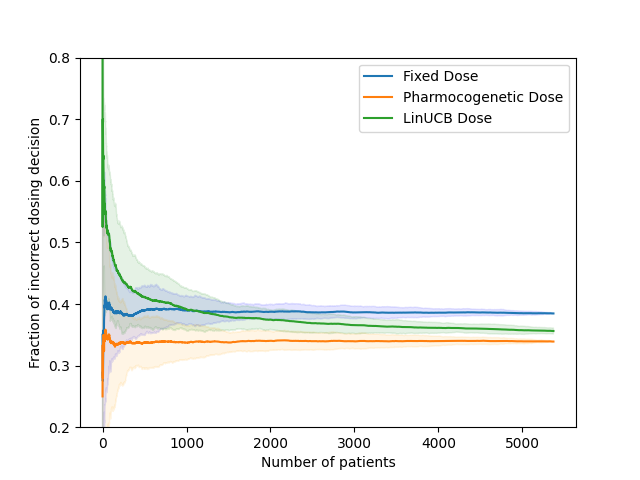
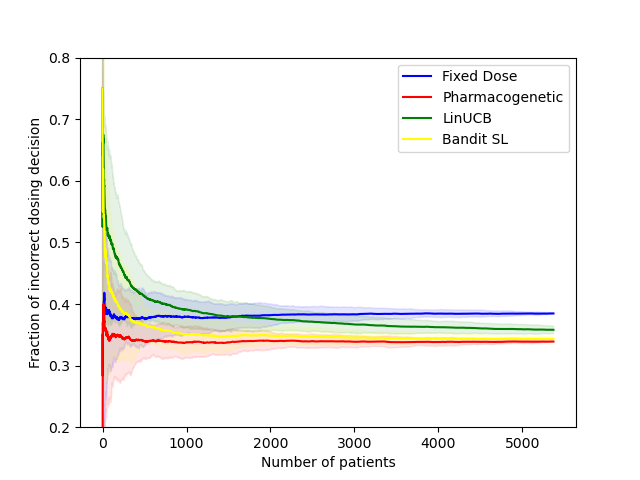
Add supervised learning baseline

diff --git a/main.py b/main.py
@@ -1,12 +1,26 @@
+import dataclasses
+from typing import Tuple
+
 import numpy as np
 import pandas as pd
 from matplotlib import pyplot as plt
 
+import supervised_learning
+from dosing_algo import (fixed_dose_policy, linucb_policy,
+                         pharmacogenetic_policy)
 from preprocessing import preprocess_patients_df
-from dosing_algo import fixed_dose_policy, pharmacogenetic_policy, linucb_policy
 
 
-def compute_metrics(dosage_bucket, dosage_target):
+@dataclasses.dataclass(frozen=True)
+class Metric:
+    metric_values: list[list[int]] | list[np.ndarray[float]]
+    label_name: str
+    color: str
+
+
+def compute_metrics(
+    dosage_bucket: np.ndarray, dosage_target: np.ndarray
+) -> Tuple[list[int], np.ndarray]:
     n_patients = len(dosage_bucket)
     regrets = []
     incorrect_fracs = []
@@ -30,42 +44,27 @@ def compute_metrics(dosage_bucket, dosage_target):
 
 
 def plot_performance(
-    fixed_dose_metric, lin_oracle_metric, linucb_metric, metric_name, file_name
-):
-    n_patients = fixed_dose_metric.shape[1]
+    metrics: list[Metric],
+    n_patients: int,
+    metric_name: str,
+    file_name: str,
+) -> None:
     timesteps = np.linspace(0, n_patients - 1, n_patients)
 
-    fixed_dose_mean = fixed_dose_metric.mean(axis=0)
-    lin_oracle_mean = lin_oracle_metric.mean(axis=0)
-    linucb_mean = linucb_metric.mean(axis=0)
-    fixed_dose_ci = 1.96 * fixed_dose_metric.std(axis=0)
-    lin_oracle_ci = 1.96 * lin_oracle_metric.std(axis=0)
-    linucb_ci = 1.96 * linucb_metric.std(axis=0)
+    for metric in metrics:
+        metric_values = np.array(metric.metric_values)
+        mean = metric_values.mean(axis=0)
+        ci = 1.96 * metric_values.std(axis=0)
 
-    plt.plot(timesteps, fixed_dose_mean, label="Fixed Dose")
-    plt.plot(timesteps, lin_oracle_mean, label="Pharmocogenetic Dose")
-    plt.plot(timesteps, linucb_mean, label="LinUCB Dose")
-    plt.fill_between(
-        timesteps,
-        (fixed_dose_mean - fixed_dose_ci),
-        (fixed_dose_mean + fixed_dose_ci),
-        color="blue",
-        alpha=0.1,
-    )
-    plt.fill_between(
-        timesteps,
-        (lin_oracle_mean - lin_oracle_ci),
-        (lin_oracle_mean + lin_oracle_ci),
-        color="orange",
-        alpha=0.1,
-    )
-    plt.fill_between(
-        timesteps,
-        (linucb_mean - linucb_ci),
-        (linucb_mean + linucb_ci),
-        color="green",
-        alpha=0.1,
-    )
+        plt.plot(timesteps, mean, label=metric.label_name, color=metric.color)
+        plt.fill_between(
+            timesteps,
+            (mean - ci),
+            (mean + ci),
+            color=metric.color,
+            alpha=0.1,
+        )
+
     plt.xlabel("Number of patients")
     plt.ylabel(metric_name)
     plt.legend()
@@ -83,6 +82,7 @@ if __name__ == "__main__":
     fixed_dose_regret_trials, fixed_dose_incorrect_frac_trials = [], []
     linear_oracle_regret_trials, linear_oracle_incorrect_frac_trials = [], []
     linucb_regret_trials, linucb_incorrect_frac_trials = [], []
+    bandit_sl_regret_trials, bandit_sl_incorrect_frac_trials = [], []
     for _ in range(N_TRIALS):
         shuffled_patients_df = patients_df.sample(frac=1).reset_index(drop=True)
         dosage_target = shuffled_patients_df["Therapeutic Dose of Warfarin"].to_numpy()
@@ -108,20 +108,65 @@ if __name__ == "__main__":
         linucb_regret_trials.append(linucb_regret)
         linucb_incorrect_frac_trials.append(linucb_incorrect_frac)
 
+        bandit_sl_buckets = supervised_learning.bandit_sl(shuffled_patients_df)
+        bandit_sl_regret, bandit_sl_incorrect_frac = compute_metrics(
+            bandit_sl_buckets, dosage_target
+        )
+        bandit_sl_regret_trials.append(bandit_sl_regret)
+        bandit_sl_incorrect_frac_trials.append(bandit_sl_incorrect_frac)
+
     plot_performance(
-        np.array(fixed_dose_regret_trials),
-        np.array(linear_oracle_regret_trials),
-        np.array(linucb_regret_trials),
+        metrics=[
+            Metric(
+                metric_values=fixed_dose_regret_trials,
+                label_name="Fixed Dose",
+                color="blue",
+            ),
+            Metric(
+                metric_values=linear_oracle_regret_trials,
+                label_name="Pharmacogenetic",
+                color="red",
+            ),
+            Metric(
+                metric_values=linucb_regret_trials, label_name="LinUCB", color="green"
+            ),
+            Metric(
+                metric_values=bandit_sl_regret_trials,
+                label_name="Bandit SL",
+                color="yellow",
+            ),
+        ],
+        n_patients=np.array(fixed_dose_regret_trials).shape[1],
         metric_name="Regret",
         file_name="regret.png",
     )
-    
+
     ax = plt.gca()
     ax.set_ylim([0.2, 0.8])
     plot_performance(
-        np.array(fixed_dose_incorrect_frac_trials),
-        np.array(linear_oracle_incorrect_frac_trials),
-        np.array(linucb_incorrect_frac_trials),
+        metrics=[
+            Metric(
+                metric_values=fixed_dose_incorrect_frac_trials,
+                label_name="Fixed Dose",
+                color="blue",
+            ),
+            Metric(
+                metric_values=linear_oracle_incorrect_frac_trials,
+                label_name="Pharmacogenetic",
+                color="red",
+            ),
+            Metric(
+                metric_values=linucb_incorrect_frac_trials,
+                label_name="LinUCB",
+                color="green",
+            ),
+            Metric(
+                metric_values=bandit_sl_incorrect_frac_trials,
+                label_name="Bandit SL",
+                color="yellow",
+            ),
+        ],
+        n_patients=np.array(fixed_dose_incorrect_frac_trials).shape[1],
         metric_name="Fraction of incorrect dosing decision",
         file_name="incorrect_fraction.png",
     )

diff --git a/supervised_learning.py b/supervised_learning.py
@@ -1,0 +1,42 @@
+from typing import Tuple
+
+import numpy as np
+import pandas as pd
+from sklearn import linear_model
+
+
+def bandit_sl(dataset: pd.DataFrame) -> np.ndarray[int]:
+    dosage_buckets = []
+    X, y = _compute_features_and_targets(dataset)
+    model = _initialize_linear_model(X, y)
+    for i in range(len(X)):
+        y_pred = model.predict(np.expand_dims(X[i], axis=0))[0]
+        if y_pred < 21:
+            dosage_buckets.append(0)
+        elif y_pred <= 49:
+            dosage_buckets.append(1)
+        else:
+            dosage_buckets.append(2)
+
+        model = model.fit(X[: i + 1], y[: i + 1])
+    return np.array(dosage_buckets)
+
+
+def _compute_features_and_targets(
+    dataset: pd.DataFrame,
+) -> Tuple[np.ndarray, np.ndarray]:
+    features_df = dataset.drop("Therapeutic Dose of Warfarin", axis=1)
+    features_np = np.hstack([features_df.to_numpy(), np.ones((len(dataset), 1))])
+    targets_np = dataset["Therapeutic Dose of Warfarin"].to_numpy()
+    return features_np, targets_np
+
+
+def _initialize_linear_model(
+    X: np.ndarray, y: np.ndarray
+) -> linear_model.LinearRegression:
+    # Randomly initialize the linear model. The model cannot be used to predict
+    # without fitting on something first.
+    random_x = np.random.rand(*X.shape)
+    random_y = np.random.rand(*y.shape)
+    model = linear_model.LinearRegression().fit(random_x, random_y)
+    return model

diff --git a/dosing_algo.py b/dosing_algo.py
@@ -1,14 +1,15 @@
 import numpy as np
 import pandas as pd
+
 from linucb import linear_ucb
 from preprocessing import compute_features_and_targets
 
 
-def fixed_dose_policy(dataset: pd.DataFrame):
+def fixed_dose_policy(dataset: pd.DataFrame) -> np.ndarray[int]:
     return np.ones(len(dataset))
 
 
-def pharmacogenetic_policy(dataset: pd.DataFrame):
+def pharmacogenetic_policy(dataset: pd.DataFrame) -> np.ndarray[int]:
     dosage_df = dataset.copy()
     dosage_df["Predicted Dose"] = (
         5.6044
@@ -44,7 +45,7 @@ def pharmacogenetic_policy(dataset: pd.DataFrame):
     return dosage_buckets
 
 
-def linucb_policy(dataset: pd.DataFrame):
+def linucb_policy(dataset: pd.DataFrame) -> np.ndarray:
     features, arms_rewards = compute_features_and_targets(dataset)
     return linear_ucb(features, arms_rewards, alpha=1)
 

diff --git a/linucb.py b/linucb.py
@@ -4,7 +4,9 @@ from matplotlib import pyplot as plt
 N_ARMS = 3
 
 
-def linear_ucb(x_train: np.ndarray, y_train: np.ndarray, alpha: int = 2) -> np.ndarray:
+def linear_ucb(
+    x_train: np.ndarray[float], y_train: np.ndarray[float], alpha: int = 2
+) -> np.ndarray[int]:
     chosen_arms = []
     num_samples, n_features = x_train.shape
     A_arms = [np.eye(n_features), np.eye(n_features), np.eye(n_features)]
@@ -20,7 +22,7 @@ def linear_ucb(x_train: np.ndarray, y_train: np.ndarray, alpha: int = 2) -> np.n
         A_arms[a_t] += np.outer(x_t, x_t)
         b_arms[a_t] += y_train[i][a_t] * x_t
         chosen_arms.append(a_t)
-    return chosen_arms
+    return np.array(chosen_arms)
 
 
 if __name__ == "__main__":

diff --git a/preprocessing.py b/preprocessing.py
@@ -1,8 +1,7 @@
 from typing import Tuple
 
-import pandas as pd
 import numpy as np
-
+import pandas as pd
 
 RS9923231_COL = "VKORC1 genotype: -1639 G>A (3673); chr16:31015190; rs9923231; C/T"
 RS2359612_COL = "VKORC1 genotype: 2255C>T (7566); chr16:31011297; rs2359612; A/G"
